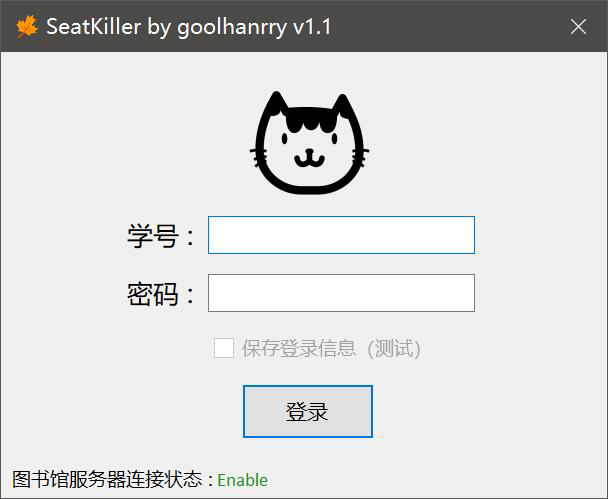
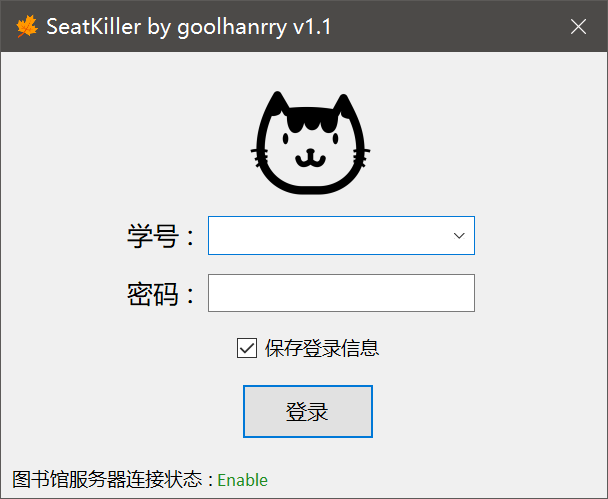
实现加密登录信息并写入注册表（需要管理员权限）

diff --git a/SeatKiller_UI/Login.Designer.cs b/SeatKiller_UI/Login.Designer.cs
@@ -30,7 +30,6 @@
         {
             System.ComponentModel.ComponentResourceManager resources = new System.ComponentModel.ComponentResourceManager(typeof(Login));
             this.textBox1 = new System.Windows.Forms.TextBox();
-            this.textBox2 = new System.Windows.Forms.TextBox();
             this.label1 = new System.Windows.Forms.Label();
             this.label2 = new System.Windows.Forms.Label();
             this.label3 = new System.Windows.Forms.Label();
@@ -39,25 +38,19 @@
             this.checkBox1 = new System.Windows.Forms.CheckBox();
             this.pictureBox1 = new System.Windows.Forms.PictureBox();
             this.backgroundWorker1 = new System.ComponentModel.BackgroundWorker();
+            this.comboBox1 = new System.Windows.Forms.ComboBox();
             ((System.ComponentModel.ISupportInitialize)(this.pictureBox1)).BeginInit();
             this.SuspendLayout();
             // 
             // textBox1
             // 
             this.textBox1.Font = new System.Drawing.Font("Calibri", 10.71429F, System.Drawing.FontStyle.Regular, System.Drawing.GraphicsUnit.Point, ((byte)(0)));
-            this.textBox1.Location = new System.Drawing.Point(207, 164);
+            this.textBox1.Location = new System.Drawing.Point(207, 222);
             this.textBox1.Name = "textBox1";
+            this.textBox1.PasswordChar = '*';
             this.textBox1.Size = new System.Drawing.Size(267, 38);
-            this.textBox1.TabIndex = 0;
-            // 
-            // textBox2
-            // 
-            this.textBox2.Font = new System.Drawing.Font("Calibri", 10.71429F, System.Drawing.FontStyle.Regular, System.Drawing.GraphicsUnit.Point, ((byte)(0)));
-            this.textBox2.Location = new System.Drawing.Point(207, 222);
-            this.textBox2.Name = "textBox2";
-            this.textBox2.PasswordChar = '*';
-            this.textBox2.Size = new System.Drawing.Size(267, 38);
-            this.textBox2.TabIndex = 1;
+            this.textBox1.TabIndex = 1;
+            this.textBox1.UseSystemPasswordChar = true;
             // 
             // label1
             // 
@@ -113,13 +106,14 @@
             // checkBox1
             // 
             this.checkBox1.AutoSize = true;
-            this.checkBox1.Enabled = false;
+            this.checkBox1.Checked = true;
+            this.checkBox1.CheckState = System.Windows.Forms.CheckState.Checked;
             this.checkBox1.Font = new System.Drawing.Font("微软雅黑", 7.714286F, System.Drawing.FontStyle.Regular, System.Drawing.GraphicsUnit.Point, ((byte)(0)));
-            this.checkBox1.Location = new System.Drawing.Point(213, 282);
+            this.checkBox1.Location = new System.Drawing.Point(236, 282);
             this.checkBox1.Name = "checkBox1";
-            this.checkBox1.Size = new System.Drawing.Size(228, 29);
+            this.checkBox1.Size = new System.Drawing.Size(152, 29);
             this.checkBox1.TabIndex = 7;
-            this.checkBox1.Text = "保存登录信息（测试）";
+            this.checkBox1.Text = "保存登录信息";
             this.checkBox1.UseVisualStyleBackColor = true;
             // 
             // pictureBox1
@@ -127,7 +121,7 @@
             this.pictureBox1.ErrorImage = ((System.Drawing.Image)(resources.GetObject("pictureBox1.ErrorImage")));
             this.pictureBox1.Image = ((System.Drawing.Image)(resources.GetObject("pictureBox1.Image")));
             this.pictureBox1.InitialImage = ((System.Drawing.Image)(resources.GetObject("pictureBox1.InitialImage")));
-            this.pictureBox1.Location = new System.Drawing.Point(227, -2);
+            this.pictureBox1.Location = new System.Drawing.Point(228, -2);
             this.pictureBox1.Name = "pictureBox1";
             this.pictureBox1.Size = new System.Drawing.Size(164, 210);
             this.pictureBox1.SizeMode = System.Windows.Forms.PictureBoxSizeMode.Zoom;
@@ -138,13 +132,23 @@
             // 
             this.backgroundWorker1.DoWork += new System.ComponentModel.DoWorkEventHandler(this.backgroundWorker1_DoWork);
             // 
+            // comboBox1
+            // 
+            this.comboBox1.Font = new System.Drawing.Font("Calibri", 10.71429F, System.Drawing.FontStyle.Regular, System.Drawing.GraphicsUnit.Point, ((byte)(0)));
+            this.comboBox1.FormattingEnabled = true;
+            this.comboBox1.Location = new System.Drawing.Point(207, 164);
+            this.comboBox1.Name = "comboBox1";
+            this.comboBox1.Size = new System.Drawing.Size(267, 39);
+            this.comboBox1.TabIndex = 9;
+            this.comboBox1.SelectedIndexChanged += new System.EventHandler(this.comboBox1_SelectedIndexChanged);
+            // 
             // Login
             // 
             this.AcceptButton = this.button1;
             this.AutoScaleDimensions = new System.Drawing.SizeF(168F, 168F);
             this.AutoScaleMode = System.Windows.Forms.AutoScaleMode.Dpi;
             this.ClientSize = new System.Drawing.Size(606, 446);
-            this.Controls.Add(this.textBox1);
+            this.Controls.Add(this.comboBox1);
             this.Controls.Add(this.pictureBox1);
             this.Controls.Add(this.checkBox1);
             this.Controls.Add(this.button1);
@@ -152,7 +156,7 @@
             this.Controls.Add(this.label3);
             this.Controls.Add(this.label2);
             this.Controls.Add(this.label1);
-            this.Controls.Add(this.textBox2);
+            this.Controls.Add(this.textBox1);
             this.Font = new System.Drawing.Font("Calibri", 9F, System.Drawing.FontStyle.Regular, System.Drawing.GraphicsUnit.Point, ((byte)(0)));
             this.FormBorderStyle = System.Windows.Forms.FormBorderStyle.FixedSingle;
             this.Icon = ((System.Drawing.Icon)(resources.GetObject("$this.Icon")));
@@ -163,7 +167,8 @@
             this.Name = "Login";
             this.SizeGripStyle = System.Windows.Forms.SizeGripStyle.Hide;
             this.StartPosition = System.Windows.Forms.FormStartPosition.CenterScreen;
-            this.Text = "SeatKiller by goolhanrry v1.1";
+            this.Text = "SeatKiller by goolhanrry v1.2";
+            this.Activated += new System.EventHandler(this.Login_Activated);
             this.FormClosed += new System.Windows.Forms.FormClosedEventHandler(this.Login_FormClosed);
             this.Load += new System.EventHandler(this.Login_Load);
             ((System.ComponentModel.ISupportInitialize)(this.pictureBox1)).EndInit();
@@ -173,7 +178,7 @@
         }
 
         #endregion
-        private System.Windows.Forms.TextBox textBox2;
+        private System.Windows.Forms.TextBox textBox1;
         private System.Windows.Forms.Label label1;
         private System.Windows.Forms.Label label2;
         private System.Windows.Forms.Label label3;
@@ -181,7 +186,7 @@
         private System.Windows.Forms.CheckBox checkBox1;
         private System.Windows.Forms.PictureBox pictureBox1;
         private System.Windows.Forms.Label label4;
-        private System.Windows.Forms.TextBox textBox1;
         private System.ComponentModel.BackgroundWorker backgroundWorker1;
+        private System.Windows.Forms.ComboBox comboBox1;
     }
 }

diff --git a/SeatKiller_UI/User.cs b/SeatKiller_UI/User.cs
@@ -1,0 +1,128 @@
+using System;
+using Microsoft.Win32;
+using System.Windows.Forms;
+using System.Collections;
+using System.Text;
+using System.Security.Cryptography;
+
+namespace SeatKiller_UI
+{
+    public static class User
+    {
+        public static RegistryKey key = Registry.ClassesRoot;
+        public static ArrayList users = new ArrayList();
+
+        public static bool CreateSubKey()
+        {
+            try
+            {
+                RegistryKey sk = key.CreateSubKey(@"SeatKiller_UI");
+                return true;
+            }
+            catch (Exception ex)
+            {
+                MessageBox.Show(ex.Message.ToString());
+                return false;
+            }
+        }
+
+        public static bool SetValue(string username, string password)
+        {
+            try
+            {
+                RegistryKey SK_Key = key.OpenSubKey(@"SeatKiller_UI", true);
+                SK_Key.SetValue(Encrypt(username), Encrypt(password));
+                SK_Key.Close();
+                return true;
+            }
+            catch (Exception ex)
+            {
+                MessageBox.Show(ex.Message.ToString());
+                return false;
+            }
+        }
+
+        public static bool GetKey()
+        {
+            try
+            {
+                users.Clear();
+                RegistryKey SK_Key = key.OpenSubKey(@"SeatKiller_UI");
+                foreach (string encrypted_username in SK_Key.GetValueNames())
+                {
+                    users.Add(Decrypt(encrypted_username));
+                }
+                return true;
+            }
+            catch (Exception ex)
+            {
+                MessageBox.Show(ex.Message.ToString());
+                return false;
+            }
+        }
+
+        public static string GetValue(string username)
+        {
+            RegistryKey SK_Key = key.OpenSubKey(@"SeatKiller_UI");
+            if (username == "")
+            {
+                return "";
+            }
+            else
+            {
+                return Decrypt(SK_Key.GetValue(Encrypt(username)).ToString());
+            }
+        }
+
+        public static bool DeleteValue()
+        {
+            try
+            {
+                RegistryKey SK_Key = key.OpenSubKey(@"SeatKiller_UI", true);
+                foreach (string username in SK_Key.GetValueNames())
+                {
+                    SK_Key.DeleteValue(username);
+                }
+                users.Clear();
+                return true;
+            }
+            catch (Exception ex)
+            {
+                MessageBox.Show(ex.Message.ToString());
+                return false;
+            }
+        }
+
+        public static string Encrypt(string encryptStr, string key = "goolhanrrylikeschocolateverymuch")
+        {
+            byte[] keyArray = Encoding.UTF8.GetBytes(key);
+            byte[] toEncryptArray = Encoding.UTF8.GetBytes(encryptStr);
+
+            RijndaelManaged rDel = new RijndaelManaged();
+            rDel.Key = keyArray;
+            rDel.Mode = CipherMode.ECB;
+            rDel.Padding = PaddingMode.PKCS7;
+
+            ICryptoTransform cTransform = rDel.CreateEncryptor();
+            byte[] resultArray = cTransform.TransformFinalBlock(toEncryptArray, 0, toEncryptArray.Length);
+
+            return Convert.ToBase64String(resultArray, 0, resultArray.Length);
+        }
+
+        public static string Decrypt(string decryptStr, string key = "goolhanrrylikeschocolateverymuch")
+        {
+            byte[] keyArray = Encoding.UTF8.GetBytes(key);
+            byte[] toEncryptArray = Convert.FromBase64String(decryptStr);
+
+            RijndaelManaged rDel = new RijndaelManaged();
+            rDel.Key = keyArray;
+            rDel.Mode = CipherMode.ECB;
+            rDel.Padding = PaddingMode.PKCS7;
+
+            ICryptoTransform cTransform = rDel.CreateDecryptor();
+            byte[] resultArray = cTransform.TransformFinalBlock(toEncryptArray, 0, toEncryptArray.Length);
+
+            return Encoding.UTF8.GetString(resultArray);
+        }
+    }
+}

diff --git a/SeatKiller_UI/Login.cs b/SeatKiller_UI/Login.cs
@@ -6,20 +6,32 @@ namespace SeatKiller_UI
 {
     public partial class Login : Form
     {
+        public static Login login;
+        BindingSource bs = new BindingSource();
         public Login()
         {
             InitializeComponent();
             CheckForIllegalCrossThreadCalls = false;
+            login = this;
         }
 
         private void Login_Load(object sender, EventArgs e)
         {
             backgroundWorker1.RunWorkerAsync();
+            User.CreateSubKey();
+            User.GetKey();
+
+            bs.DataSource = User.users;
+            comboBox1.DataSource = bs;
+            if (comboBox1.Items.Count > 0)
+            {
+                User.users.Add("(清空登录信息)");
+                bs.ResetBindings(false);
+            }
         }
 
         private void backgroundWorker1_DoWork(object sender, System.ComponentModel.DoWorkEventArgs e)
         {
-            textBox1.Focus();
             if (SeatKiller.GetToken(true) == "登录失败: 密码不正确")
             {
                 label4.Text = "Enable";
@@ -34,11 +46,16 @@ namespace SeatKiller_UI
 
         private void button1_Click(object sender, EventArgs e)
         {
-            SeatKiller.username = textBox1.Text;
-            SeatKiller.password = textBox2.Text;
+            SeatKiller.username = comboBox1.Text;
+            SeatKiller.password = textBox1.Text;
             string response = SeatKiller.GetToken(true);
             if (response == "Success")
             {
+                if (checkBox1.Checked)
+                {
+                    User.SetValue(comboBox1.Text, textBox1.Text);
+                }
+
                 Hide();
                 if (!SeatKiller.CheckResInf())
                 {
@@ -61,6 +78,24 @@ namespace SeatKiller_UI
         {
             if (ActiveForm.Name != "Config" & ActiveForm.Name != "Reservation")
                 Application.Exit();
+        }
+
+        private void comboBox1_SelectedIndexChanged(object sender, EventArgs e)
+        {
+            if (comboBox1.Text == "(清空登录信息)")
+            {
+                User.DeleteValue();
+                bs.ResetBindings(false);
+            }
+            else
+            {
+                textBox1.Text = User.GetValue(comboBox1.Text);
+            }
+        }
+
+        private void Login_Activated(object sender, EventArgs e)
+        {
+            comboBox1.Focus();
         }
     }
 }

diff --git a/SeatKiller_UI/About.Designer.cs b/SeatKiller_UI/About.Designer.cs
@@ -46,7 +46,7 @@
             this.label1.Name = "label1";
             this.label1.Size = new System.Drawing.Size(750, 168);
             this.label1.TabIndex = 0;
-            this.label1.Text = "版本号：1.1\r\nGitHub仓库：\r\n不定时更新，最新版本将在下方QQ群和GitHub仓库中发布\r\n\r\n本软件完全开源，也不会以任何形式收取捐赠\r\nCode S" +
+            this.label1.Text = "版本号：1.2\r\nGitHub仓库：\r\n不定时更新，最新版本将在下方QQ群和GitHub仓库中发布\r\n\r\n本软件完全开源，也不会以任何形式收取捐赠\r\nCode S" +
     "tyle写得一般，欢迎添加作者微信或QQ群交流探讨及提交bug ۹(๑•̀ω•́ ๑)۶";
             // 
             // pictureBox1

diff --git a/SeatKiller_UI/Config.Designer.cs b/SeatKiller_UI/Config.Designer.cs
@@ -308,7 +308,7 @@
             this.Name = "Config";
             this.SizeGripStyle = System.Windows.Forms.SizeGripStyle.Hide;
             this.StartPosition = System.Windows.Forms.FormStartPosition.CenterScreen;
-            this.Text = "SeatKiller by goolhanrry v1.1";
+            this.Text = "SeatKiller by goolhanrry v1.2";
             this.FormClosed += new System.Windows.Forms.FormClosedEventHandler(this.Config_FormClosed);
             this.Load += new System.EventHandler(this.Config_Load);
             this.groupBox1.ResumeLayout(false);

diff --git a/SeatKiller_UI/Properties/AssemblyInfo.cs b/SeatKiller_UI/Properties/AssemblyInfo.cs
@@ -32,5 +32,5 @@ using System.Runtime.InteropServices;
 // 可以指定所有值，也可以使用以下所示的 "*" 预置版本号和修订号
 // 方法是按如下所示使用“*”: :
 // [assembly: AssemblyVersion("1.0.*")]
-[assembly: AssemblyVersion("1.1.0.0")]
-[assembly: AssemblyFileVersion("1.1.0.0")]
+[assembly: AssemblyVersion("1.2.0.0")]
+[assembly: AssemblyFileVersion("1.2.0.0")]
